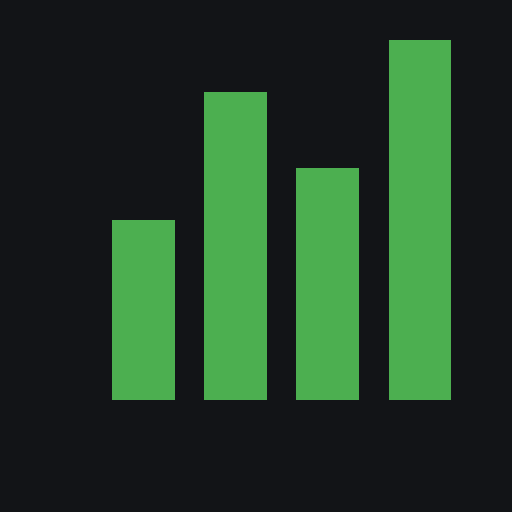
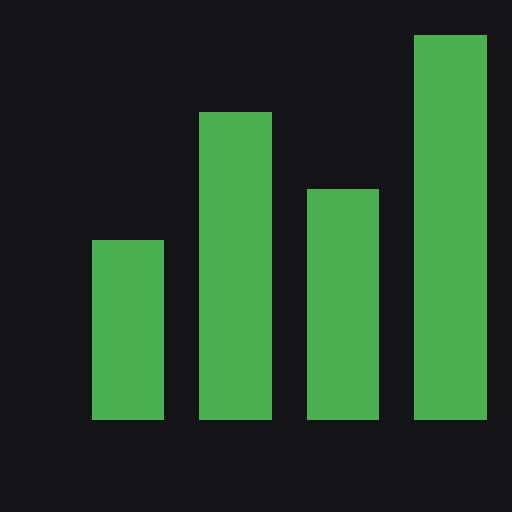
Add files via upload

Changed region(s): [[0.5625, 0.0625, 0.9688, 0.8438], [0.375, 0.1562, 0.5312, 0.8438], [0.1562, 0.4062, 0.3438, 0.8438]]

diff --git a/index.html b/index.html
@@ -107,8 +107,8 @@
         }
 
         header .brand-icon {
-            width: 18.3px;
-            height: 18.3px;
+            width: 22.9px;
+            height: 22.9px;
         }
 
         .user-bar {
@@ -370,7 +370,7 @@
         }
 
         #loginScreen .brand { margin-bottom: 30px; font-size: 1.4rem; }
-        #loginScreen .brand-icon { width: 19.36px; height: 19.36px; }
+        #loginScreen .brand-icon { width: 24.2px; height: 24.2px; }
 
         #loginScreen input {
             background: #121417;
